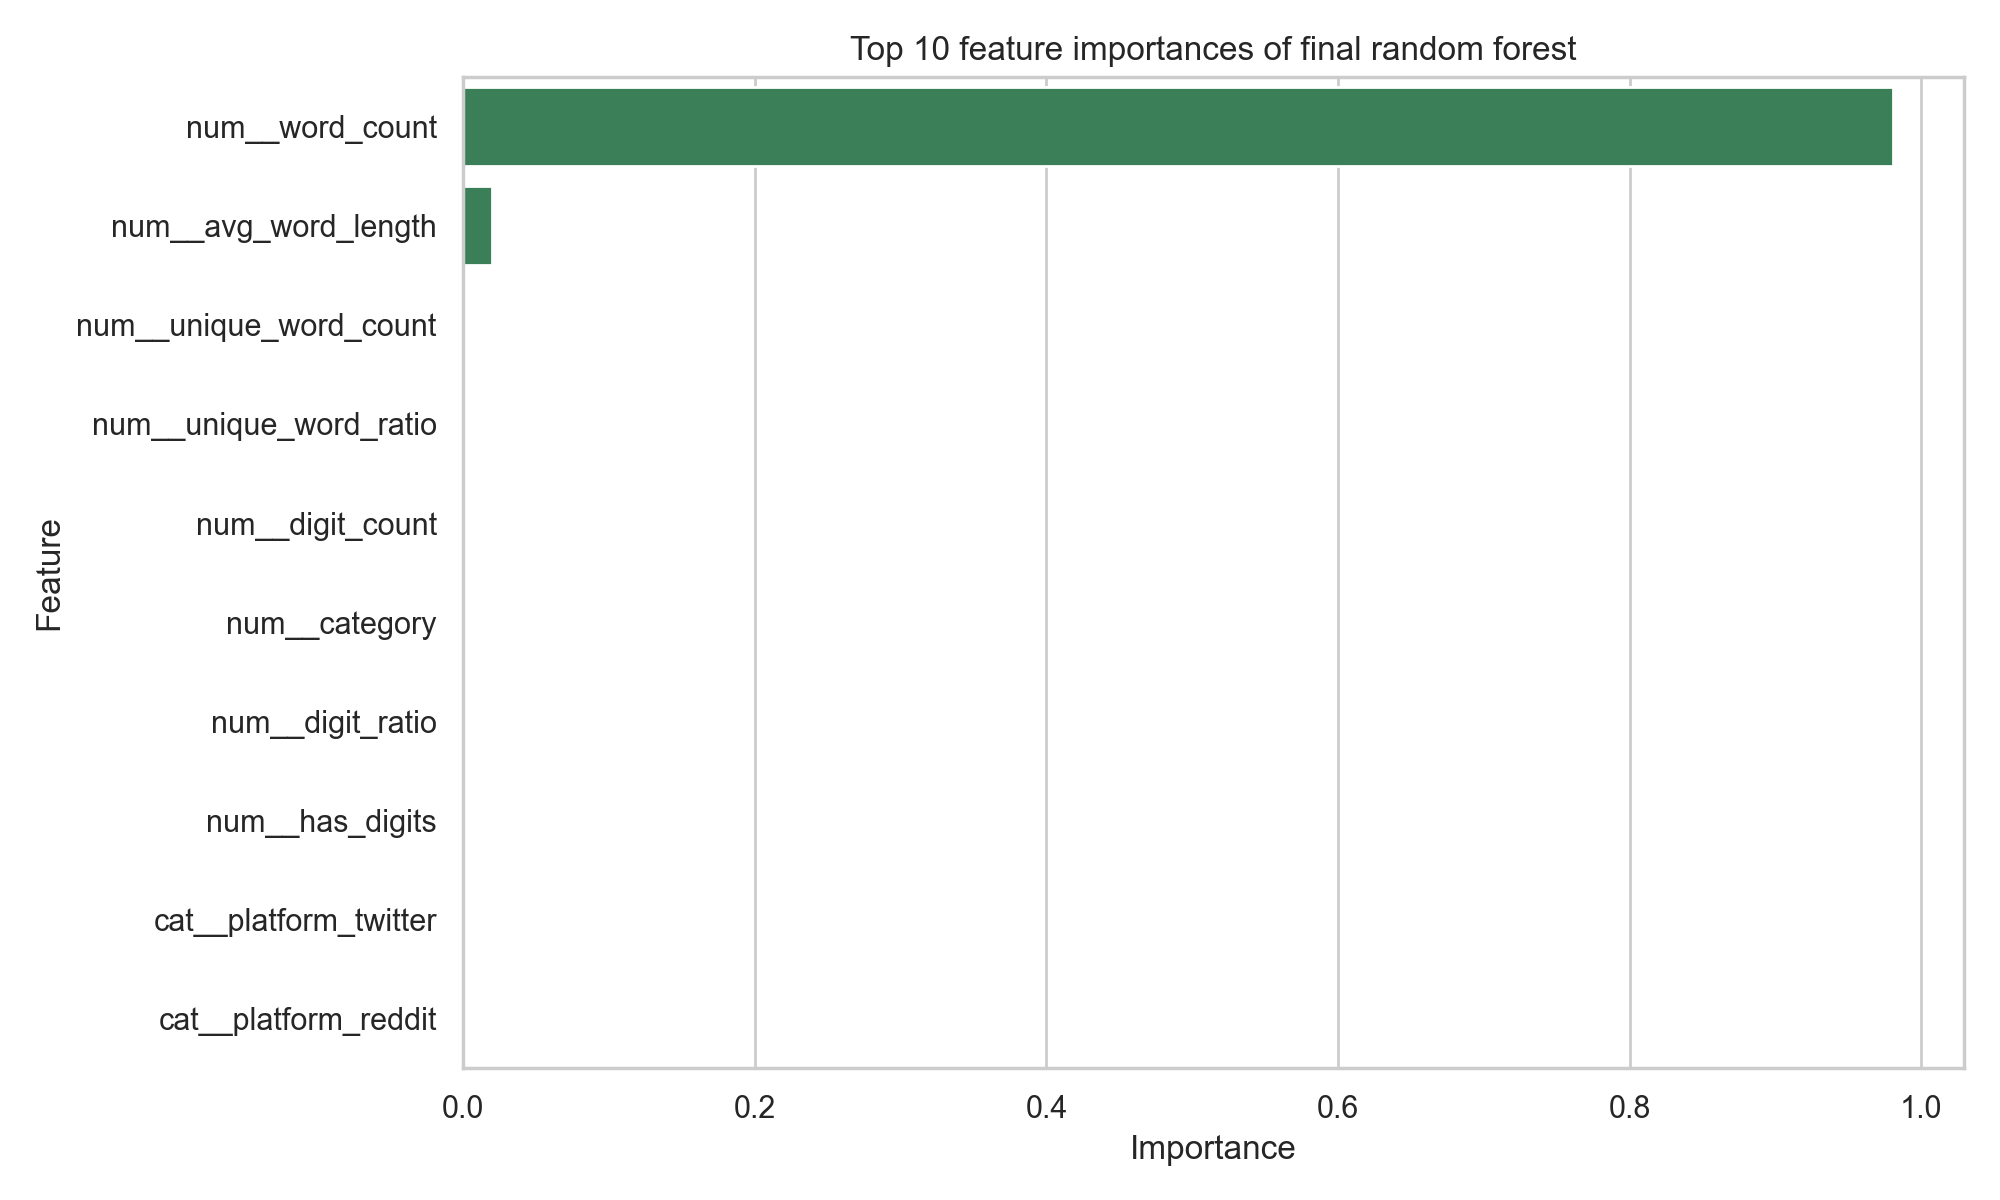
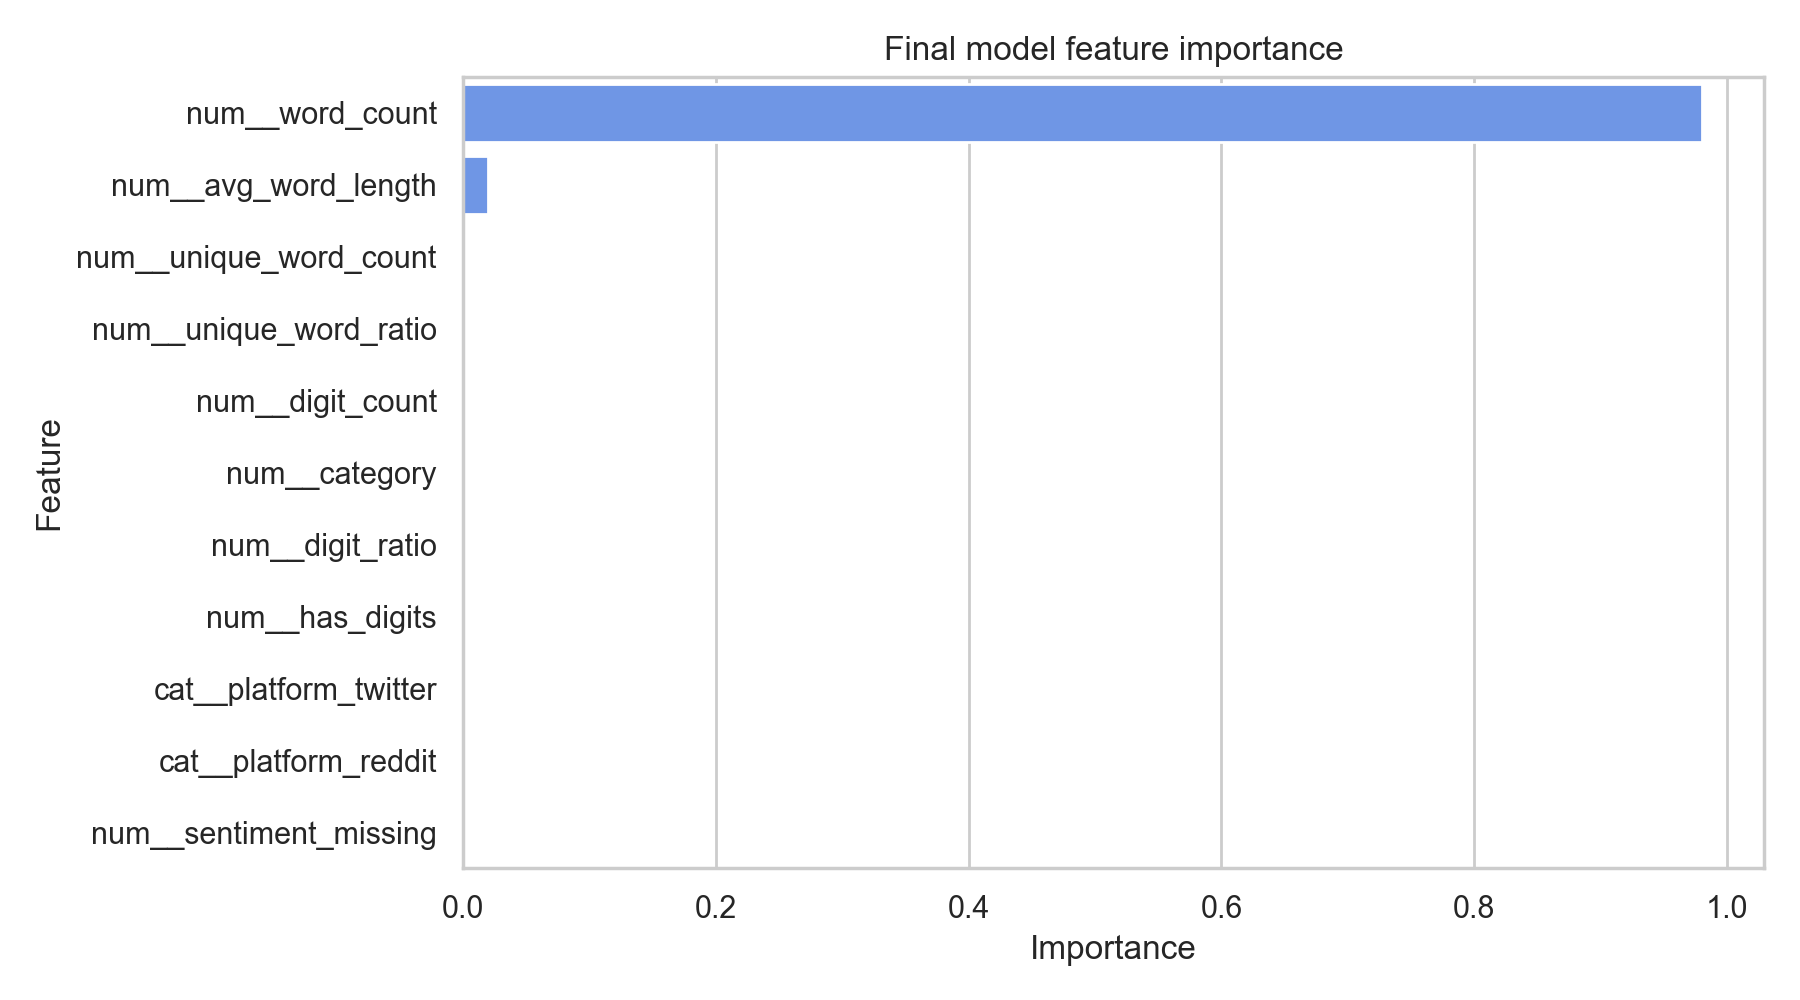
Initial commit for cp2

diff --git a/src/modeling.py b/src/modeling.py
@@ -669,6 +669,43 @@ def plot_svd_explained_variance(train_df: pd.DataFrame, images_dir: Path) -> Pat
     return path
 
 
+def save_feature_importance(
+    final_model: object,
+    processed_dir: Path,
+    images_dir: Path,
+) -> Path | None:
+    if not isinstance(final_model, Pipeline):
+        return None
+
+    model = final_model.named_steps.get("model")
+    preprocessor = final_model.named_steps.get("preprocessor")
+    if model is None or preprocessor is None or not hasattr(model, "feature_importances_"):
+        return None
+
+    feature_names = preprocessor.get_feature_names_out()
+    importance_df = pd.DataFrame(
+        {
+            "feature": feature_names,
+            "importance": model.feature_importances_,
+        }
+    ).sort_values(by="importance", ascending=False)
+
+    csv_path = processed_dir / "final_model_feature_importance.csv"
+    importance_df.to_csv(csv_path, index=False)
+
+    fig, ax = plt.subplots(figsize=(9, 5))
+    top_features = importance_df.head(12).copy()
+    sns.barplot(data=top_features, x="importance", y="feature", ax=ax, color="#5B8FF9")
+    ax.set_title("Final model feature importance")
+    ax.set_xlabel("Importance")
+    ax.set_ylabel("Feature")
+    fig.tight_layout()
+    image_path = images_dir / "final_model_feature_importance.png"
+    fig.savefig(image_path, dpi=200)
+    plt.close(fig)
+    return csv_path
+
+
 def save_artifacts(
     results_df: pd.DataFrame,
     artifacts: dict[str, object],
@@ -709,6 +746,7 @@ def main() -> None:
 
     plot_model_comparison(artifacts["best_by_family"], images_dir)
     plot_svd_explained_variance(train_df, images_dir)
+    save_feature_importance(final_model, processed_dir, images_dir)
     save_artifacts(
         results_df=results_df,
         artifacts=artifacts,

diff --git a/tests/test_pipeline.py b/tests/test_pipeline.py
@@ -1,8 +1,27 @@
-from src.preprocessing import clean_dataset, load_raw_data, split_dataset
+import pandas as pd
+
+from src.preprocessing import clean_dataset, split_dataset
+
+
+def make_sample_data(rows: int = 400) -> pd.DataFrame:
+    records = []
+    for index in range(rows):
+        platform = "twitter" if index % 2 == 0 else "reddit"
+        category = [-1, 0, 1][index % 3]
+        words = [f"word{item}" for item in range(1, (index % 25) + 2)]
+        words.append(f"sample{index}")
+        records.append(
+            {
+                "text": " ".join(words),
+                "category": category,
+                "platform": platform,
+            }
+        )
+    return pd.DataFrame(records)
 
 
 def test_clean_dataset_creates_target_and_features() -> None:
-    cleaned = clean_dataset(load_raw_data())
+    cleaned = clean_dataset(make_sample_data())
 
     expected_columns = {
         "text",
@@ -25,7 +44,7 @@ def test_clean_dataset_creates_target_and_features() -> None:
 
 
 def test_split_dataset_preserves_row_count() -> None:
-    cleaned = clean_dataset(load_raw_data())
+    cleaned = clean_dataset(make_sample_data())
     train_df, val_df, test_df = split_dataset(cleaned)
 
     assert len(train_df) + len(val_df) + len(test_df) == len(cleaned)

diff --git a/report/report.md b/report/report.md
@@ -1,7 +1,7 @@
 # Отчёт по проекту
 
-**Студент:** [ФИО / Student ID]
-**Группа:** 
+**Студент:** Лисота Александр Юрьевич
+**Группа:** БИВ236
 
 ---
 
@@ -246,17 +246,32 @@
 
 ---
 
-## 7. Деплой
+## 7. Качество кода и воспроизводимость
 
-- **Интерфейс:** если требуется по задаче (Streamlit, Telegram-бот и т.д.)
-- **API:** FastAPI или аналог - описание эндпоинтов, примеры запросов
-- **Скриншоты** работы интерфейса/API
-- **Ссылка на видео** демонстрации работы
+- **Структура проекта:** код разделён на модули `src/preprocessing.py`, `src/eda.py`, `src/modeling.py`, общие пути и seed вынесены в `src/config.py`. Отчёт, графики, данные и модели лежат в отдельных директориях.
+- **Воспроизводимость:** все разбиения, sampling и стохастические модели используют фиксированный `RANDOM_STATE = 42`.
+- **Зависимости:** список библиотек и минимальных версий задан в `requirements.txt`.
+- **Линтеры:** настроены `ruff` в `pyproject.toml` и `flake8` в `.flake8`.
+- **Тесты:** smoke-тесты пайплайна находятся в `tests/test_pipeline.py` и проверяют создание целевой переменной, признаков и корректность split.
+- **CI:** workflow `.github/workflows/ci.yml` запускает `ruff`, `flake8` и `pytest`.
+- **Docker:** есть `Dockerfile` и `docker-compose.yml`, которые позволяют запустить экспериментальный пайплайн в контейнере.
+
+Команды для локальной проверки:
+
+```bash
+ruff check .
+flake8 --jobs 1 src tests
+pytest
+```
 
 ---
 
 ## 8. Заключение и выводы
 
-- **Итоги:** достигнутые результаты, сравнение с baseline
-- **Ограничения:** что не удалось, почему
-- **Возможные улучшения:** идеи для дальнейшей работы
+- Был построен полный пайплайн для задачи регрессии: загрузка двух платформ, очистка, feature engineering, стратифицированный split, EDA, эксперименты и сохранение финальной модели.
+- Baseline на минимальных признаках показал слабое качество: `MAE(test) = 68.185`.
+- Feature engineering оказался решающим: уже линейная модель на структурных признаках снизила `MAE(test)` до `5.773`.
+- Лучшей моделью стал `RandomForestRegressor`: после финального переобучения на `train + val` он получил `MAE(test) = 0.055`.
+- Эксперимент с `TF-IDF + TruncatedSVD` показал, что уменьшение размерности для текстовых признаков в этой задаче ухудшает качество, потому что компактное представление теряет значимую информацию.
+- Главное ограничение постановки: длина сообщения почти детерминированно восстанавливается из текстовых структурных признаков, поэтому задача больше проверяет корректность пайплайна и экспериментов, чем сложное языковое моделирование.
+- Возможные улучшения: проверить постановку без признаков, напрямую связанных с длиной, добавить признаки пунктуации/эмодзи/ссылок при наличии сырых текстов, а также сравнить результаты отдельно для Twitter и Reddit.

diff --git a/README.md b/README.md
@@ -1,9 +1,9 @@
 [![Review Assignment Due Date](https://classroom.github.com/assets/deadline-readme-button-22041afd0340ce965d47ae6ef1cefeee28c7c493a6346c4f15d667ab976d596c.svg)](https://classroom.github.com/a/kOqwghv0)
 # ML Project — Predicting Message Length on Twitter and Reddit
 
-**Студент:** [ФИО / Student ID]
+**Студент:** Лисота Александр Юрьевич
 
-**Группа:** [Группа]
+**Группа:** БИВ236
 
 ## Оглавление
 
